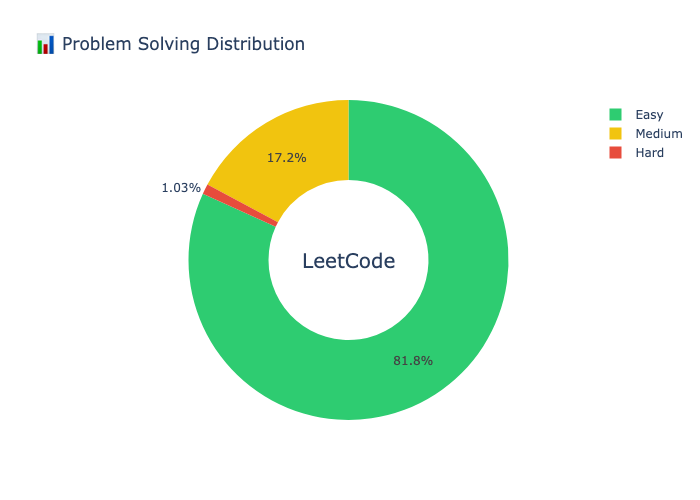
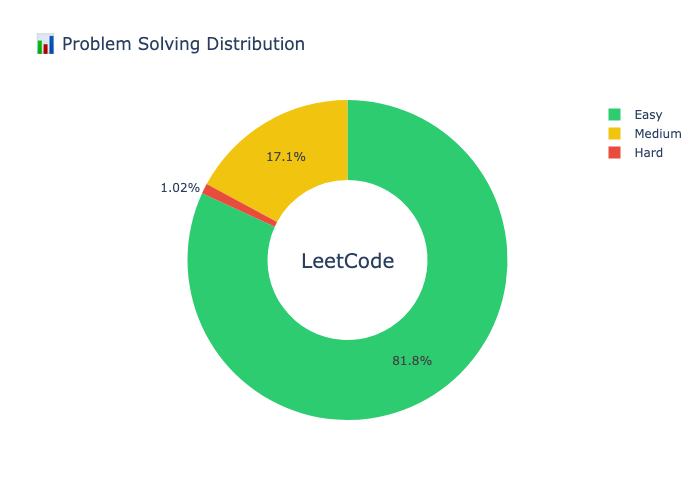
Updated code

diff --git a/README.md b/README.md
@@ -18,11 +18,11 @@ Welcome to my repository, where I document my journey of solving coding challeng
 ---
 
 ## 💡 Problem-Solving Stats  
-- **Acceptance Rate**: 37.28%  
+- **Acceptance Rate**: 37.35%  
 |----------------|---------------------|---------------------|----------------|  
-| 🟢 Easy        | 319 / 899          | 37.28%              |
-| 🟡 Medium      | 67 / 1918         | 37.28%             |
-| 🔴 Hard        | 4 / 869            | 37.28%             |
+| 🟢 Easy        | 320 / 899          | 37.35%              |
+| 🟡 Medium      | 67 / 1918         | 37.35%             |
+| 🔴 Hard        | 4 / 869            | 37.35%             |
 
 ---
 
@@ -78,13 +78,13 @@ Welcome to my repository, where I document my journey of solving coding challeng
 ---
 
 ## 💡 Problem-Solving Stats  
-- **Acceptance Rate**: 37.28%  
+- **Acceptance Rate**: 37.35%  
 
 | Difficulty | Solved / Total | Acceptance Rate |
 |------------|----------------|-----------------|
-| 🟢 Easy        | 319 / 899          | 37.28%              |
-| 🟡 Medium      | 67 / 1918         | 37.28%             |
-| 🔴 Hard        | 4 / 869            | 37.28%             |
+| 🟢 Easy        | 320 / 899          | 37.35%              |
+| 🟡 Medium      | 67 / 1918         | 37.35%             |
+| 🔴 Hard        | 4 / 869            | 37.35%             |
 
 --
 
